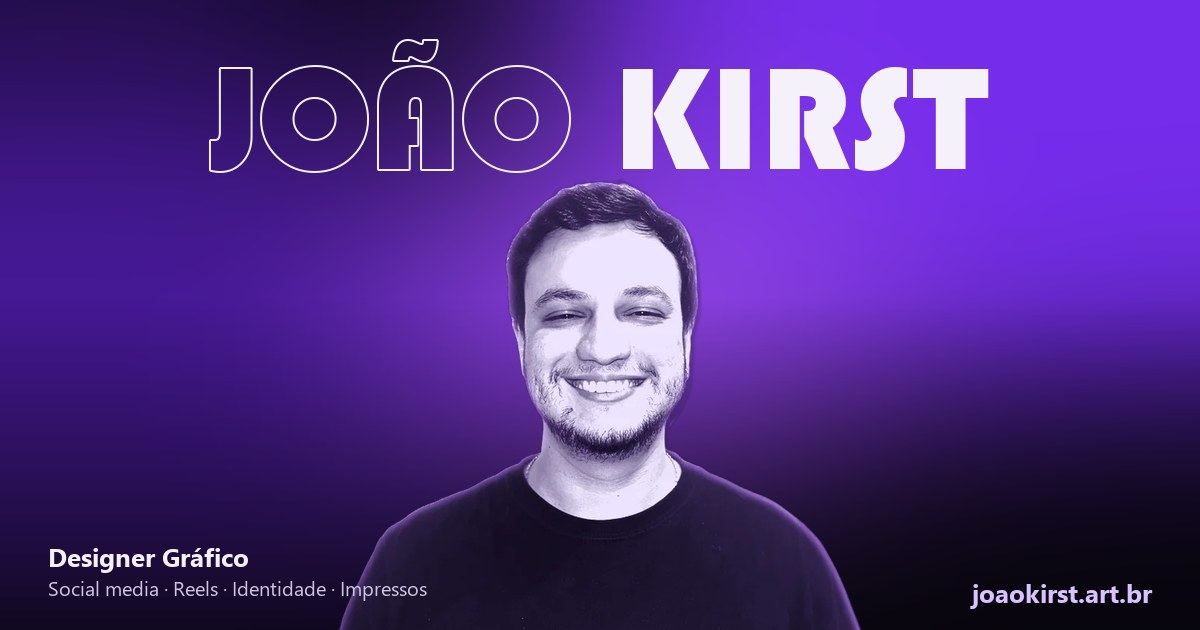
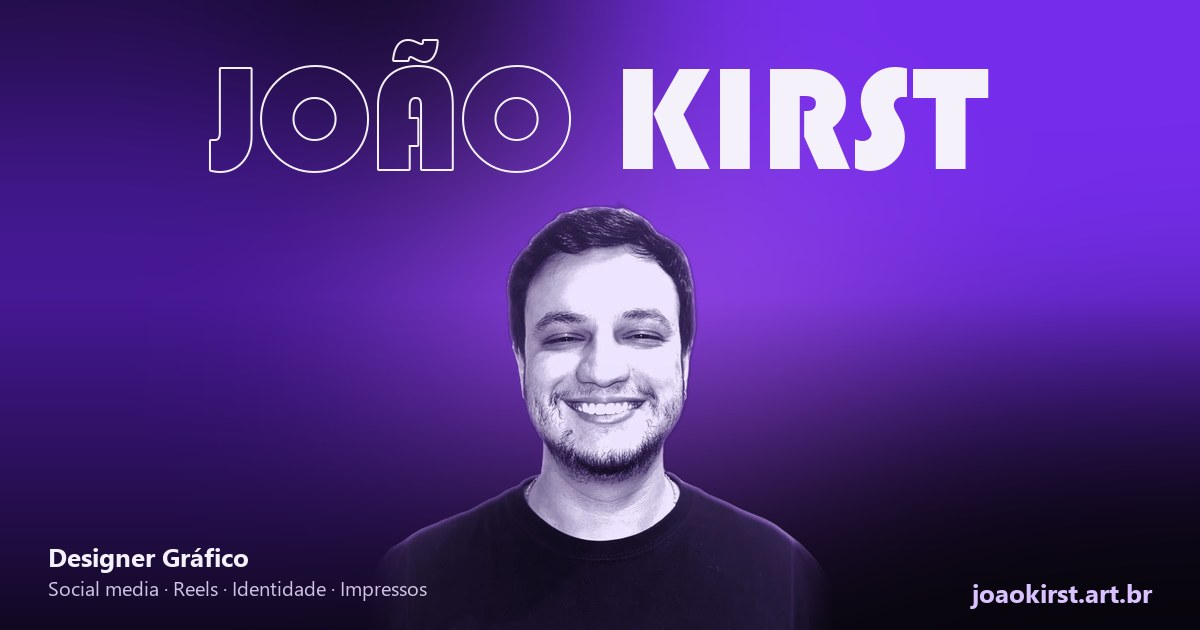
Troca a foto do hero pelo close (IMG_0948) e atualiza imagem de compartilhamento

Changed region(s): [[0.3083, 0.2714, 0.74, 1.0], [0.2775, 0.9048, 0.3083, 1.0]]

diff --git a/index.html b/index.html
@@ -20,7 +20,7 @@
   <link rel="preconnect" href="https://fonts.gstatic.com" crossorigin>
   <link href="https://fonts.googleapis.com/css2?family=Poppins:wght@300;400;500;600;700&display=swap" rel="stylesheet">
   <link rel="preload" href="assets/fonts/bauhaus93.ttf" as="font" type="font/ttf" crossorigin>
-  <link rel="stylesheet" href="styles.css?v=10">
+  <link rel="stylesheet" href="styles.css?v=11">
   <script>
     /* Entrada do hero: o JS do fim da página dispara a animação; se algo falhar, o conteúdo aparece mesmo assim */
     document.documentElement.classList.add('js');
@@ -64,8 +64,8 @@
           <div class="hx-name" id="hxName" aria-hidden="true"><span class="hx-name-in"><span class="o">JOÃO</span> <span class="f">KIRST</span></span></div>
 
           <div class="hx-person" id="hxPerson">
-            <img class="hx-mono" src="assets/joao-cut.webp" alt="João Vitor Kirst, designer gráfico" width="864" height="620" fetchpriority="high">
-            <img class="hx-color" src="assets/joao-cut-color.webp" alt="" width="864" height="620" aria-hidden="true">
+            <img class="hx-mono" src="assets/joao-cut.webp" alt="João Vitor Kirst, designer gráfico" width="1070" height="1000" fetchpriority="high">
+            <img class="hx-color" src="assets/joao-cut-color.webp" alt="" width="1070" height="1000" aria-hidden="true">
           </div>
 
           <div class="hx-left">

diff --git a/styles.css b/styles.css
@@ -288,8 +288,8 @@ p  { color: var(--muted); line-height: 1.75; }
 .hx-person {
   position: absolute; z-index: 2;
   left: 50%; bottom: -5%;
-  height: min(80%, 84vw);
-  aspect-ratio: 864 / 620;
+  height: min(77%, 62vw);
+  aspect-ratio: 1070 / 1000;
   transform: translateX(-50%);
 }
 .hx-person img { position: absolute; inset: 0; width: 100%; height: 100%; object-fit: contain; object-position: bottom; }
@@ -383,8 +383,8 @@ p  { color: var(--muted); line-height: 1.75; }
   .hx-name .o { -webkit-text-stroke-width: 1.4px; }
   .hx-person {
     position: relative; left: auto; bottom: auto;
-    height: 35vh; height: 35svh;
-    margin: -22px auto 0;
+    height: 36vh; height: 36svh;
+    margin: -34px auto 0;
   }
   .hx-person img {
     -webkit-mask-image: linear-gradient(180deg, #000 72%, transparent);
